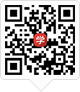
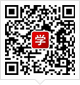
图标更改

diff --git a/source/widget/Mall.live/live.js b/source/widget/Mall.live/live.js
@@ -50,6 +50,9 @@ $(function(){
                 url: url
             },
             success : function(msg,event){
+                if(msg.sign == 0){
+                   alert('您已预约过此类课程或无此直播');
+                }
                 if(msg.sign == 2){
                     window.location.href = msg.msg;
                     return;
@@ -69,7 +72,7 @@ $(function(){
                     t.closest('.live-course-title').addClass('success_join')
                     t.find('span').html("已预约，请耐心等待")
                 }
-                if(msg.sign == 3 || msg.sign==0){
+                if(msg.sign == 3){
                     t.attr("data-target","#liveOrderFailModal");
                     liveOrderFailModal.showModal();
                     var tim = 5;

diff --git a/source/widget/Mall.indexTrends/ui-trends.less b/source/widget/Mall.indexTrends/ui-trends.less
@@ -76,7 +76,7 @@
 				}
 				.QRcode_icon{
 					position: absolute;
-					bottom: 5px;
+					bottom: 3px;
 					width: 100%;
 					left:0px;
 					box-sizing: border-box;
@@ -138,9 +138,12 @@
 					    width: 60px;
 					    height: 60px;
 					    position: absolute;
-					    border-radius: 50%;
-					    box-shadow: 0px 0px 1px 1px #cccccc;
 					    left: 110px;
+					    img{
+					    	border-radius: 50%;
+					    	border: 1px solid #ccc;
+					    	width: 60px;
+					    }
 				}
 				.user-info {
 					.user-sex {

diff --git a/source/static/less/default.less b/source/static/less/default.less
@@ -409,7 +409,7 @@ ul.grade-list {
             .live-course-box{
                 overflow: hidden;
                 position: relative;
-                
+                width: 290px;
                 .live-course-title{
                     display: block;
                     position: absolute;
@@ -436,6 +436,8 @@ ul.grade-list {
         }
         .live-teacher-photo {
             margin-top:0;
+            width: 290px;
+            height: 198px;
         }
 .page-turn {
     position: absolute;

diff --git a/source/widget/Mall.live/live.less b/source/widget/Mall.live/live.less
@@ -309,6 +309,7 @@
   font-size: @fs12;
   border: @borderea;
   background-color: #fcfcfc;
+  margin-bottom: 10px;
   li {
     float: left;
     width: 65px;
